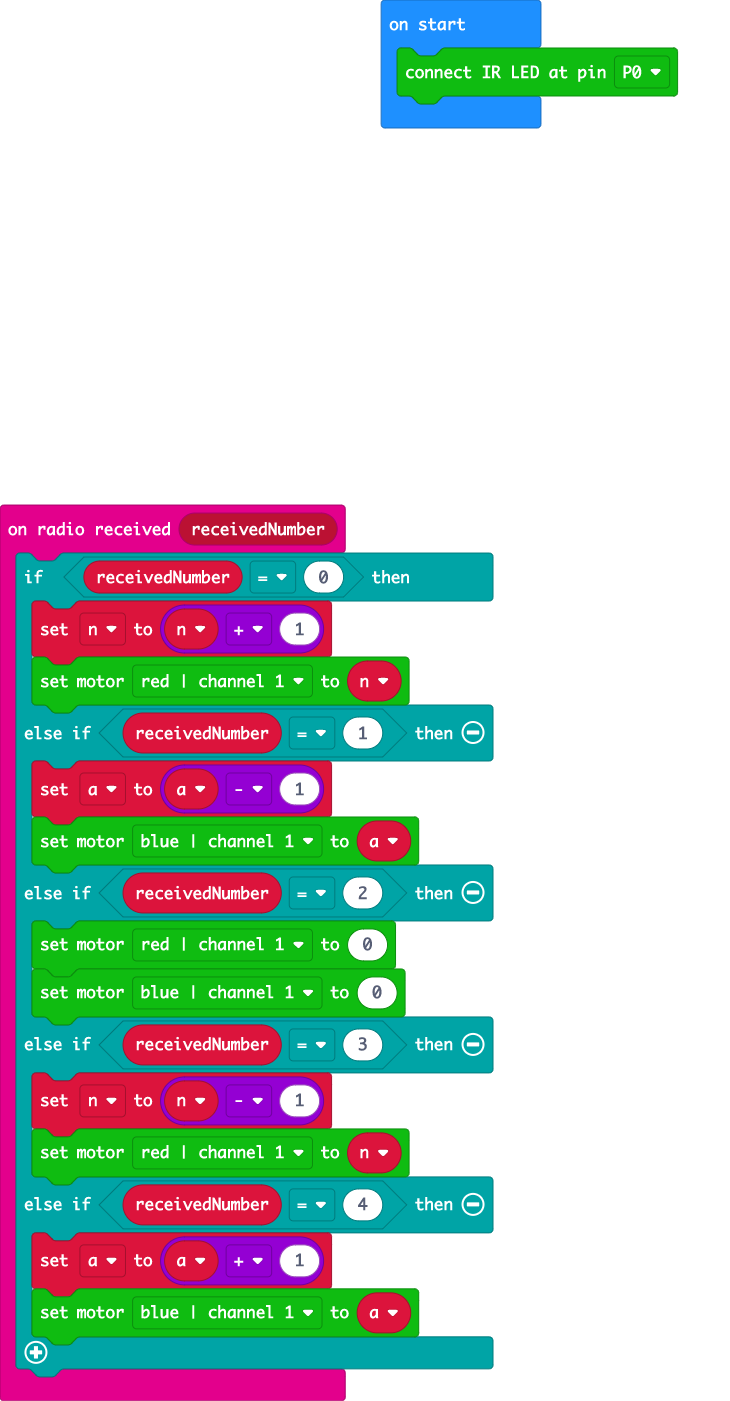
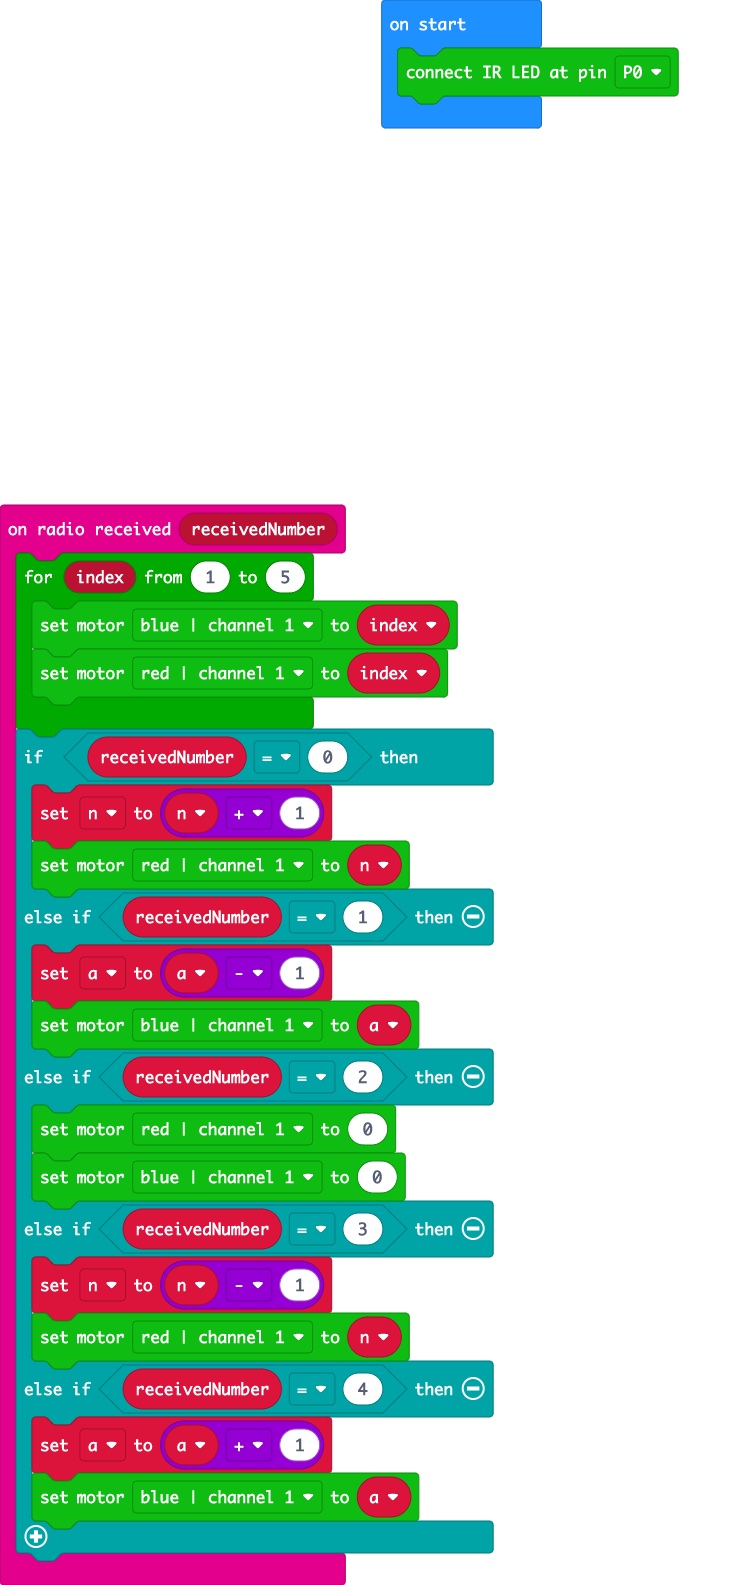
Update main.blocks, main.ts

diff --git a/main.ts b/main.ts
@@ -1,4 +1,8 @@
 radio.onReceivedNumber(function (receivedNumber) {
+    loops.forLoop(1, 5, function (index) {
+        powerfunctions.setSpeed(PowerFunctionsMotor.Blue1, index)
+        powerfunctions.setSpeed(PowerFunctionsMotor.Red1, index)
+    })
     if (receivedNumber == 0) {
         n = n + 1
         powerfunctions.setSpeed(PowerFunctionsMotor.Red1, n)
